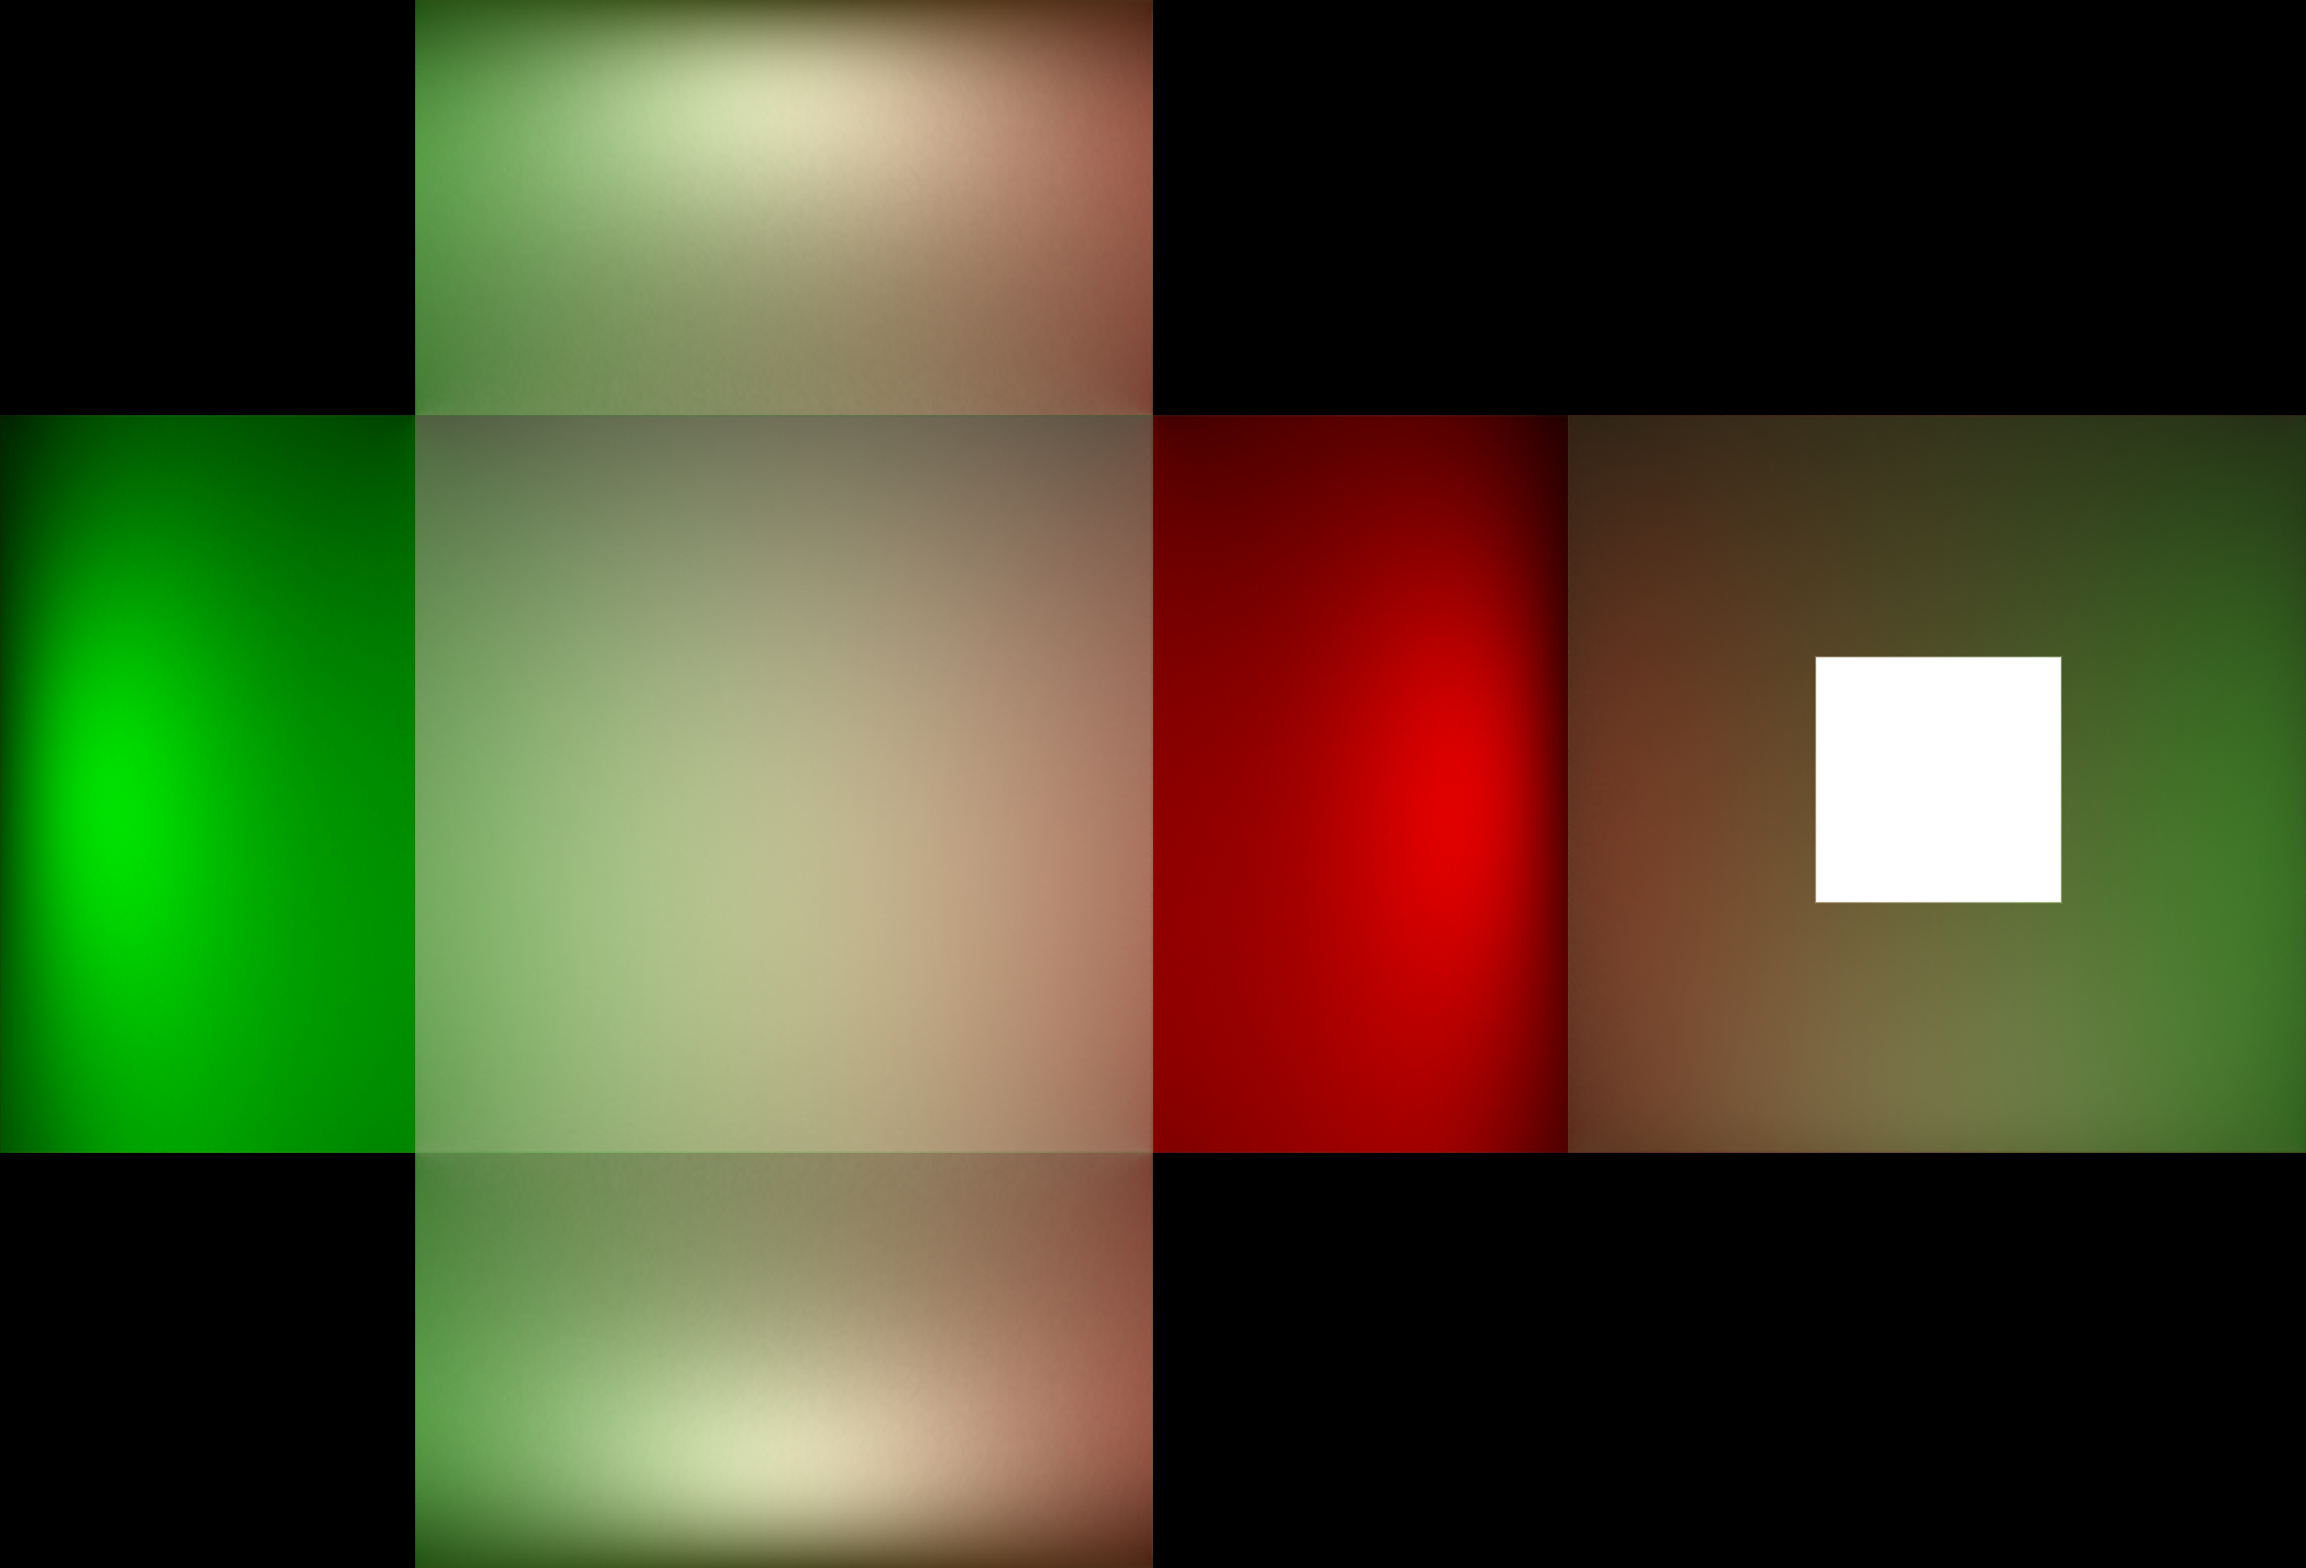
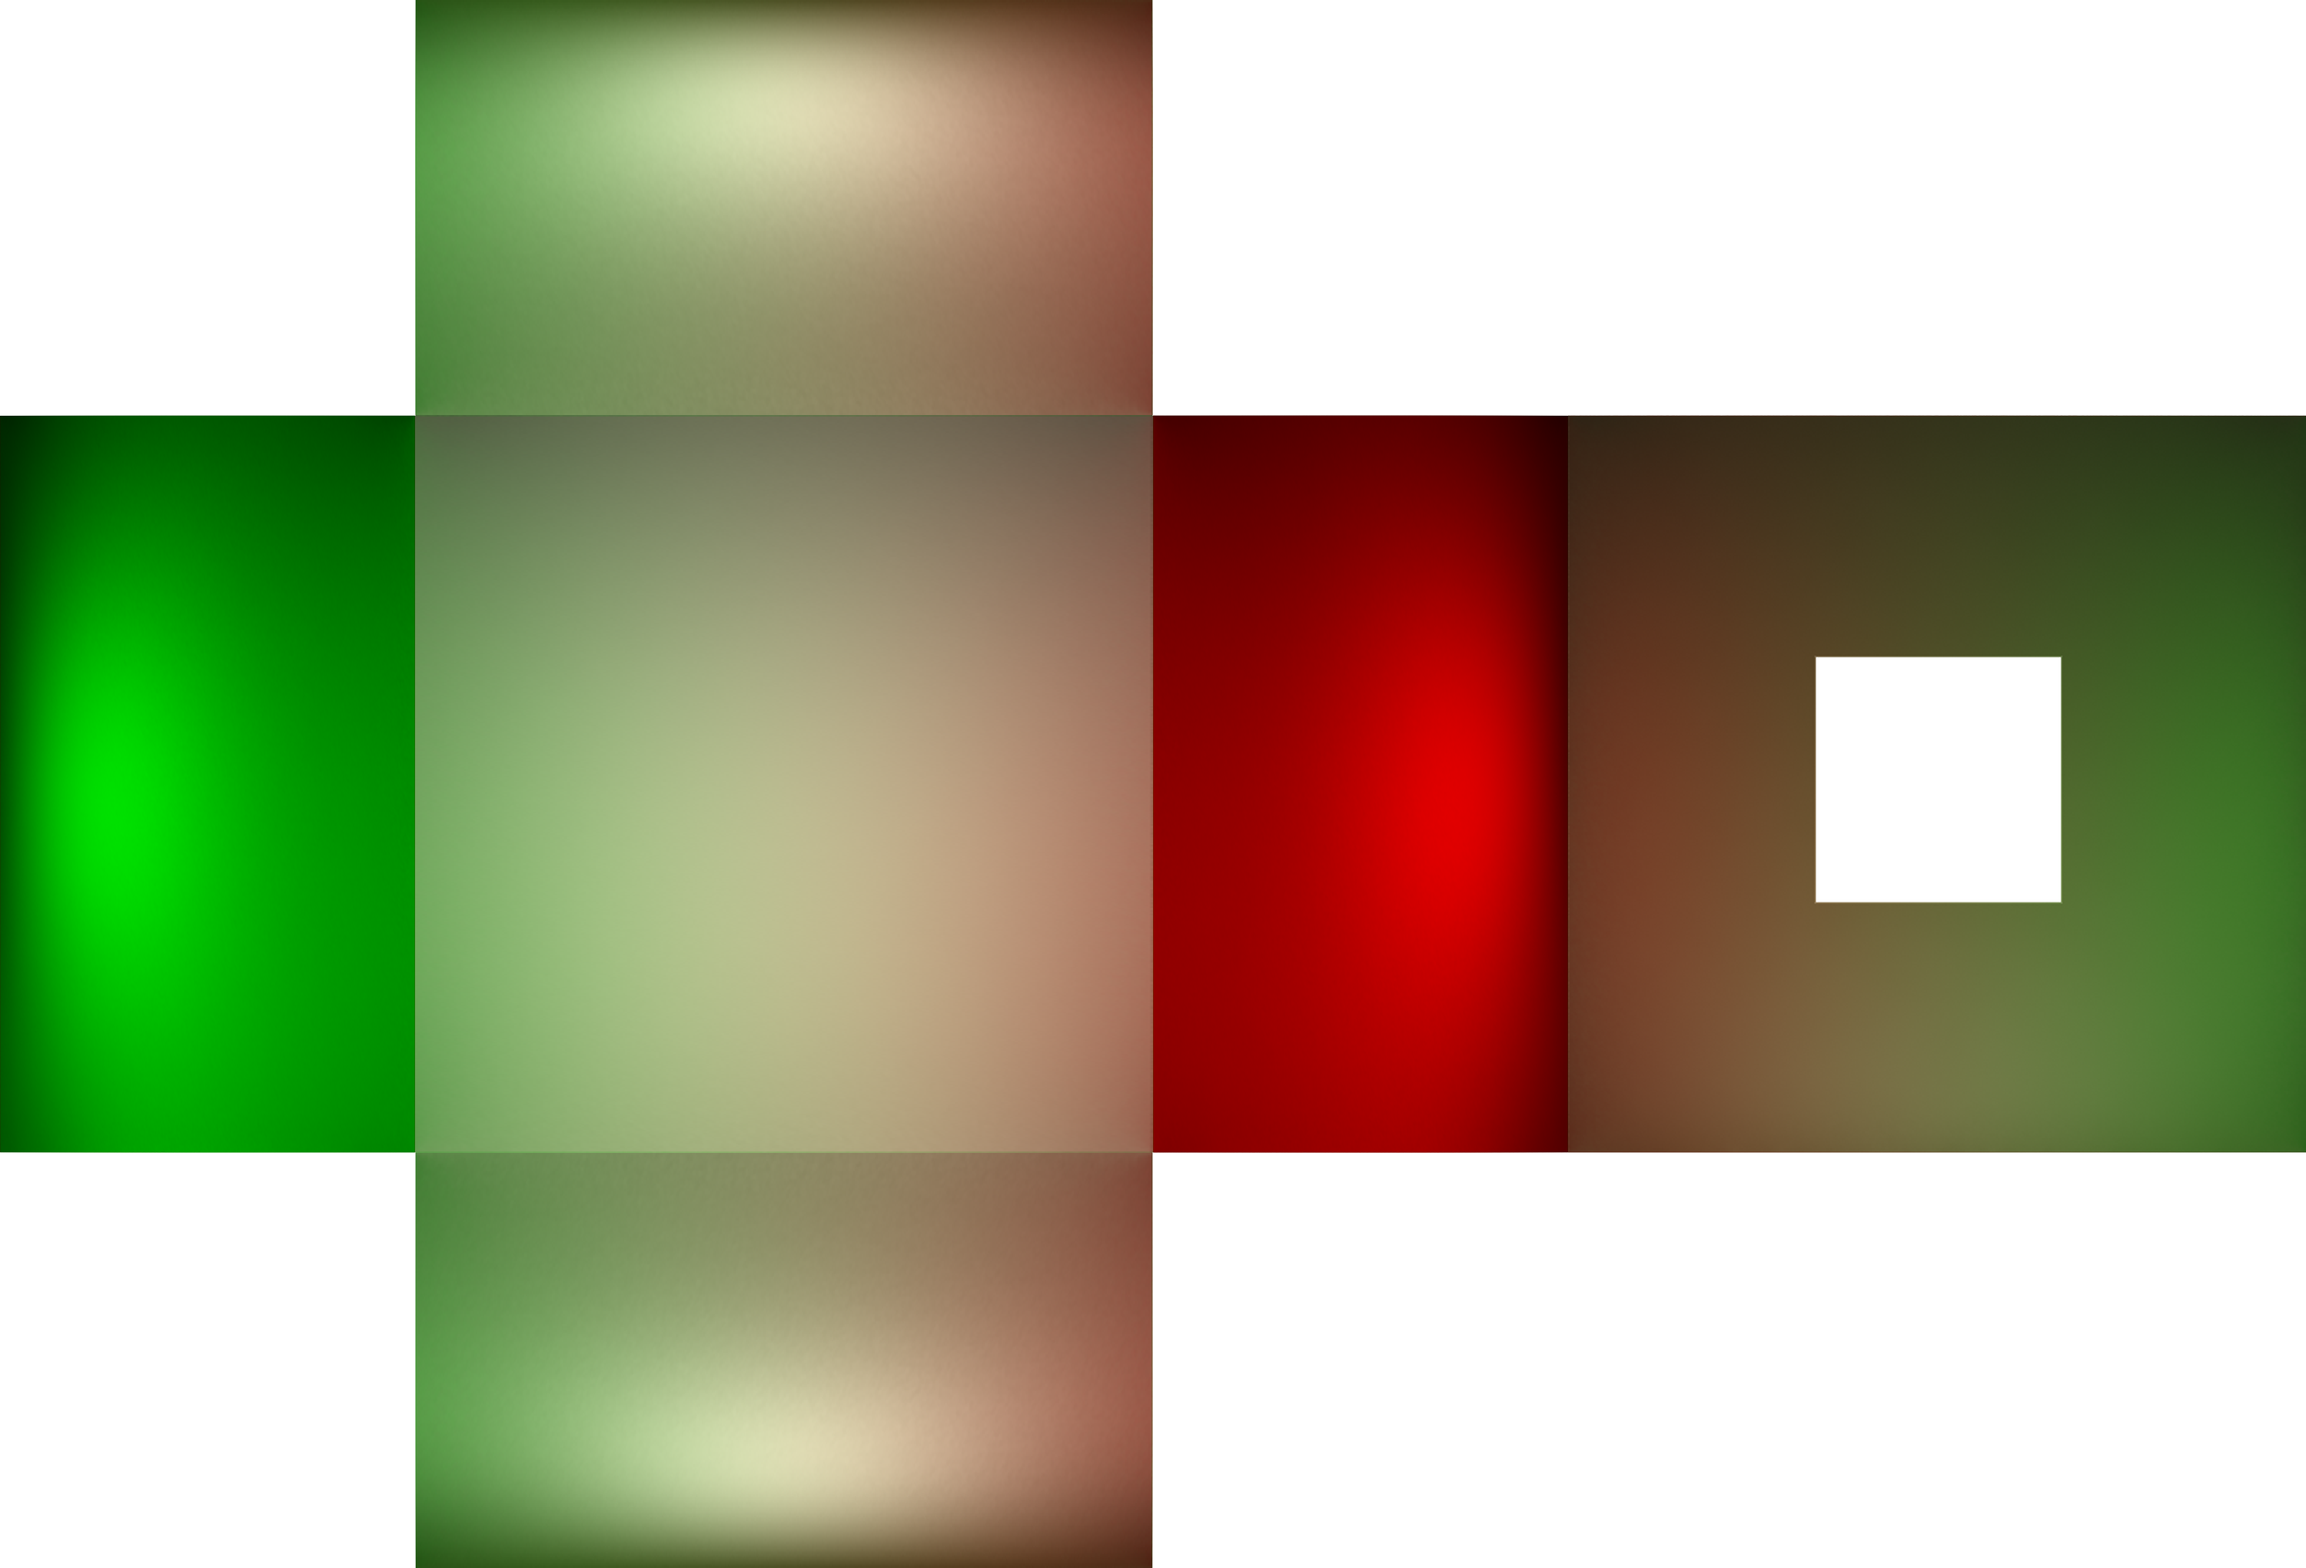
improved edge generation of platforms

diff --git a/platformer/src/GameState.cpp b/platformer/src/GameState.cpp
@@ -508,9 +508,66 @@ void GameState::buildWorld()
 
         //for each layer create a drawable in the scene
         std::int32_t startDepth = GameConst::BackgroundDepth + 2;
-        float worldDepth = -20.f;
+        float worldDepth = 32.f;
         for (const auto& layer : layers)
         {
+            //create the edge geometry
+            const auto& edgeData = layer.edges;
+            if (!edgeData.empty())
+            {
+                entity = m_tilemapScene.createEntity();
+                //there's no model matrix (atm) so scale is applied directly to vertices.
+                entity.addComponent<xy::Transform>();// .setScale(scale, scale);
+                entity.addComponent<xy::Drawable>().setDepth(-10000);
+                auto& verts = entity.getComponent<xy::Drawable>().getVertices();
+                for (const auto& edge : edgeData)
+                {
+                    sf::Vector2f offset;
+
+                    switch (edge.facing)
+                    {
+                    default: break;
+                    case 0:
+                        offset.y += 16.f;
+                        break;
+                    case 1:
+                        offset.x -= 16.f;
+                        break;
+                    case 2:
+                        offset.y -= 16.f;
+                        break;
+                    case 3:
+                        offset.x = 16.f; //TODO fetch this from tile set info
+                        break;
+                    }
+
+                    verts.push_back(edge.vertices[1]);
+                    verts.back().color.a = 128 - 32;
+                    verts.back().position *= scale;
+                    verts.back().texCoords += offset;
+
+                    verts.push_back(edge.vertices[0]);
+                    verts.back().color.a = 128 - 32;
+                    verts.back().position *= scale;
+                    verts.back().texCoords += offset;
+
+                    verts.push_back(edge.vertices[0]);
+                    verts.back().color.a = 128 + worldDepth;
+                    verts.back().position *= scale;
+
+                    verts.push_back(edge.vertices[1]);
+                    verts.back().color.a = 128 + worldDepth;
+                    verts.back().position *= scale;
+                }
+                entity.getComponent<xy::Drawable>().updateLocalBounds();
+                entity.getComponent<xy::Drawable>().setShader(&m_shaders.get(ShaderID::TileEdge));
+                entity.getComponent<xy::Drawable>().setTexture(layer.tileSet);
+                entity.getComponent<xy::Drawable>().bindUniformToCurrentTexture("u_texture");
+                entity.getComponent<xy::Drawable>().addGlFlag(GL_DEPTH_TEST);
+                entity.getComponent<xy::Drawable>().addGlFlag(GL_CULL_FACE);
+            }
+
+
             entity = m_tilemapScene.createEntity();
             entity.addComponent<xy::Transform>();
             entity.addComponent<xy::Drawable>().setDepth(startDepth);
@@ -522,7 +579,7 @@ void GameState::buildWorld()
             entity.getComponent<xy::Drawable>().bindUniform("u_tileCount", layer.tileSetSize);
             entity.getComponent<xy::Drawable>().bindUniform("u_tileSize", sf::Vector2f(m_mapLoader.getTileSize(), m_mapLoader.getTileSize()));
 
-            entity.getComponent<xy::Drawable>().bindUniform("u_depth", worldDepth);
+            entity.getComponent<xy::Drawable>().bindUniform("u_depth", edgeData.empty() ? 0.f : worldDepth);
             entity.getComponent<xy::Drawable>().addGlFlag(GL_DEPTH_TEST);
             entity.getComponent<xy::Drawable>().addGlFlag(GL_CULL_FACE);
 
@@ -541,37 +598,7 @@ void GameState::buildWorld()
 
             startDepth += 4; //place layers 4 apart so props etc can be placed in between
             
-
-            //create the edge geometry
-            const auto& edgeData = layer.edges;
-            entity = m_tilemapScene.createEntity();
-            //there's no model matrix (atm) so scale is applied directly to vertices.
-            entity.addComponent<xy::Transform>();// .setScale(scale, scale);
-            entity.addComponent<xy::Drawable>();// .setDepth(10000);
-            auto& verts = entity.getComponent<xy::Drawable>().getVertices();
-            for (const auto& edge : edgeData)
-            {
-                verts.push_back(edge.vertices[1]);
-                verts.back().color.a = 128 - 50;
-                verts.back().position *= scale;
-                verts.push_back(edge.vertices[0]);
-                verts.back().color.a = 128 - 50;
-                verts.back().position *= scale;
-                verts.push_back(edge.vertices[0]);
-                verts.back().color.a = 128 + worldDepth;
-                verts.back().position *= scale;
-                verts.push_back(edge.vertices[1]);
-                verts.back().color.a = 128 + worldDepth;
-                verts.back().position *= scale;
-            }
-            entity.getComponent<xy::Drawable>().updateLocalBounds();
-            entity.getComponent<xy::Drawable>().setShader(&m_shaders.get(ShaderID::TileEdge));
-            entity.getComponent<xy::Drawable>().setTexture(layer.tileSet);
-            entity.getComponent<xy::Drawable>().bindUniformToCurrentTexture("u_texture");
-            entity.getComponent<xy::Drawable>().addGlFlag(GL_DEPTH_TEST);
-            entity.getComponent<xy::Drawable>().addGlFlag(GL_CULL_FACE);
-
-            worldDepth += 50.f;
+            //worldDepth += 50.f;
             //TODO we're using literal rather than normalised depth values (for now)
             //make sure above value doesn't exceed 127
         }

diff --git a/platformer/src/MapLoader.cpp b/platformer/src/MapLoader.cpp
@@ -129,6 +129,16 @@ bool MapLoader::load(const std::string& file)
                 const auto& tiles = tileLayer.getTiles();
                 std::vector<sf::Uint32> tileIDs(tiles.size());
 
+                //look to see if we have an extrusion property
+                const auto& properties = tileLayer.getProperties();
+                auto found = std::find_if(properties.begin(), properties.end(),
+                    [](const tmx::Property& prop)
+                    {
+                        return prop.getName() == "extrude";
+                    });
+
+                bool extrude = (found != properties.end() && found->getBoolValue());
+
                 for (auto i = 0u; i < tiles.size(); ++i)
                 {
                     //REMEMBER tmx tile IDs start at 1 (0 is an empty tile)
@@ -142,7 +152,7 @@ bool MapLoader::load(const std::string& file)
                     }
 
                     //check surrounding tiles and add edges to the list if neighbour is empty
-                    if (tiles[i].ID > 0)
+                    if ( extrude && tiles[i].ID > 0)
                     {
                         std::int32_t idx = static_cast<std::int32_t>(i);
                         std::int32_t xCount = static_cast<std::int32_t>(map.getTileCount().x);
@@ -204,14 +214,14 @@ bool MapLoader::load(const std::string& file)
                 auto xCount = texture->getSize().x / tileset->getTileSize().x;
                 for (auto& edge : mapLayer.edges)
                 {
-                    auto idx = edge.tileID - (tileset->getFirstGID() - 1);
+                    auto idx = (edge.tileID - tileset->getFirstGID());// -1;
 
                     edge.vertices[0].texCoords.x = static_cast<float>((idx % xCount) * map.getTileSize().x);
                     edge.vertices[0].texCoords.y = static_cast<float>((idx / xCount) * map.getTileSize().y);
                     edge.vertices[0].texCoords += p1Offsets[edge.facing];
                     edge.vertices[1].texCoords = edge.vertices[0].texCoords + p2Offsets[edge.facing];
 
-                    switch (edge.facing)
+                    /*switch (edge.facing)
                     {
                     default:break;
                     case 0: 
@@ -230,7 +240,7 @@ bool MapLoader::load(const std::string& file)
                         edge.vertices[0].texCoords.x += 1.5f;
                         edge.vertices[1].texCoords.x += 1.5f;
                         break;
-                    }                    
+                    } */                   
                 }
 
                 //correct the tile ID is necessary and load into a texture via an image

diff --git a/platformer/src/NinjaDirector.cpp b/platformer/src/NinjaDirector.cpp
@@ -88,7 +88,10 @@ void NinjaDirector::handleMessage(const xy::Message& msg)
 
         //case PlayerEvent::Jumped:
         case PlayerEvent::Landed:
-            spawnPuff(data.entity.getComponent<xy::Transform>().getPosition());
+            if (data.entity.isValid())
+            {
+                spawnPuff(data.entity.getComponent<xy::Transform>().getPosition());
+            }
             break;
         case PlayerEvent::GotShield:
             spawnShield(data.entity);
